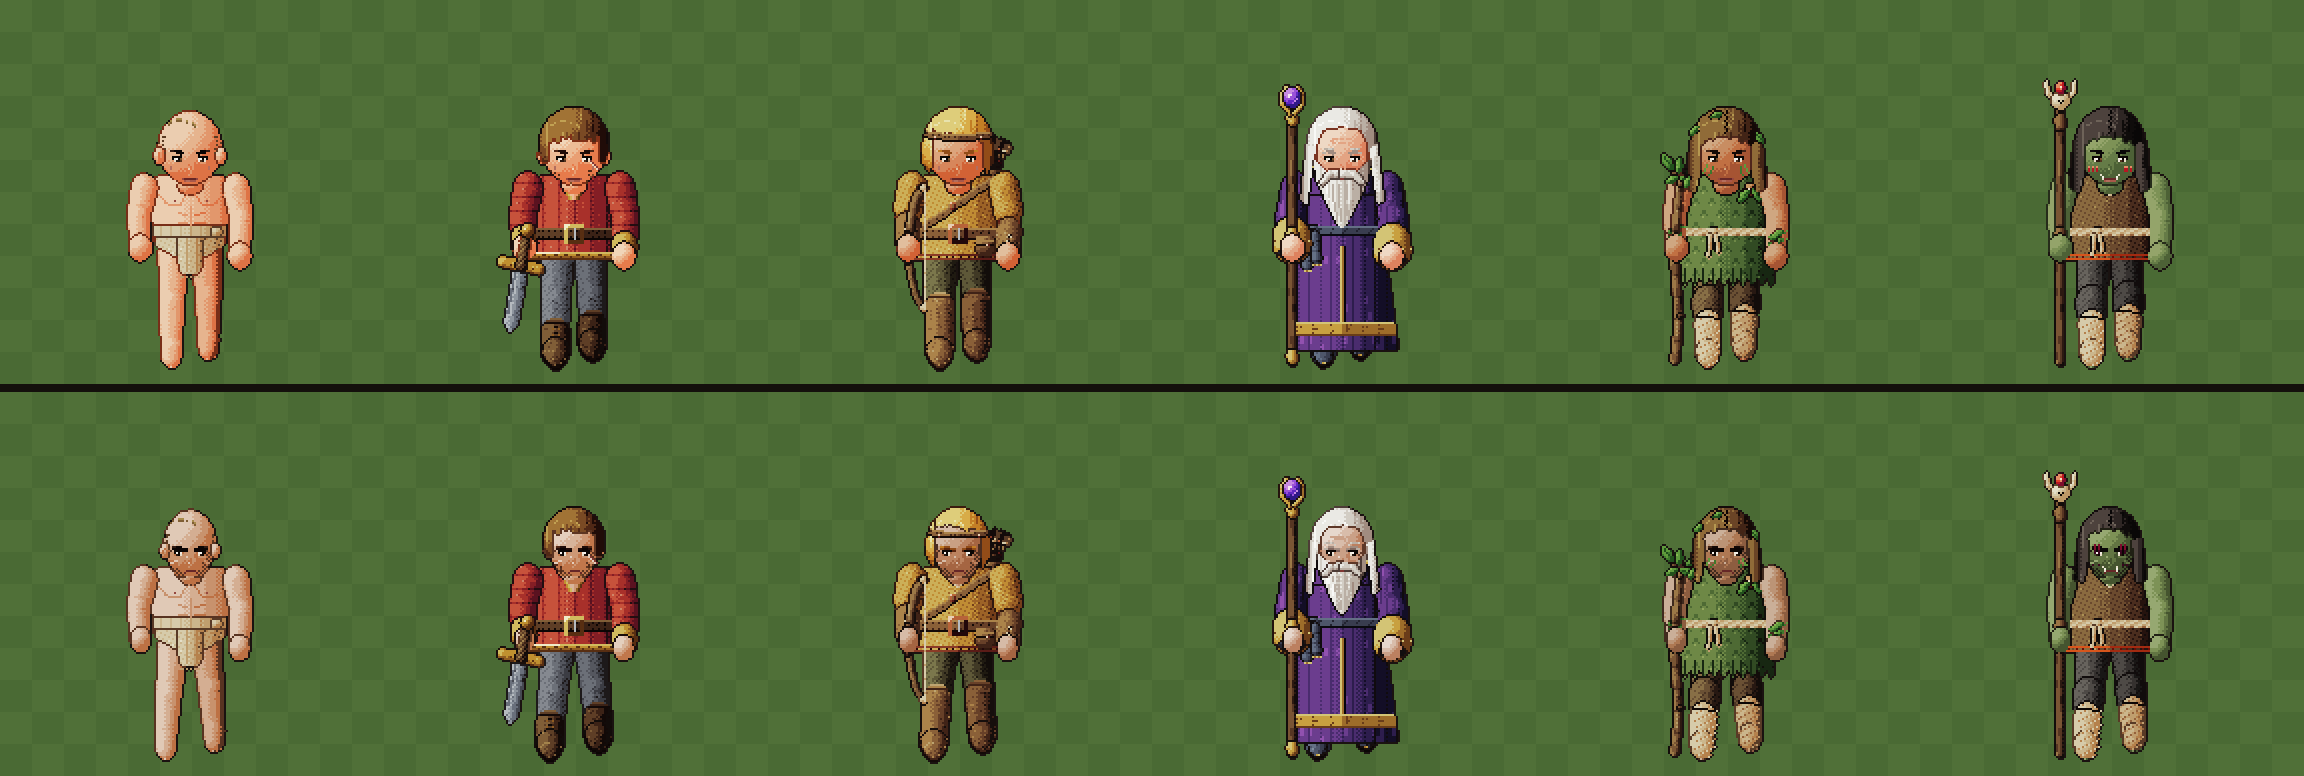
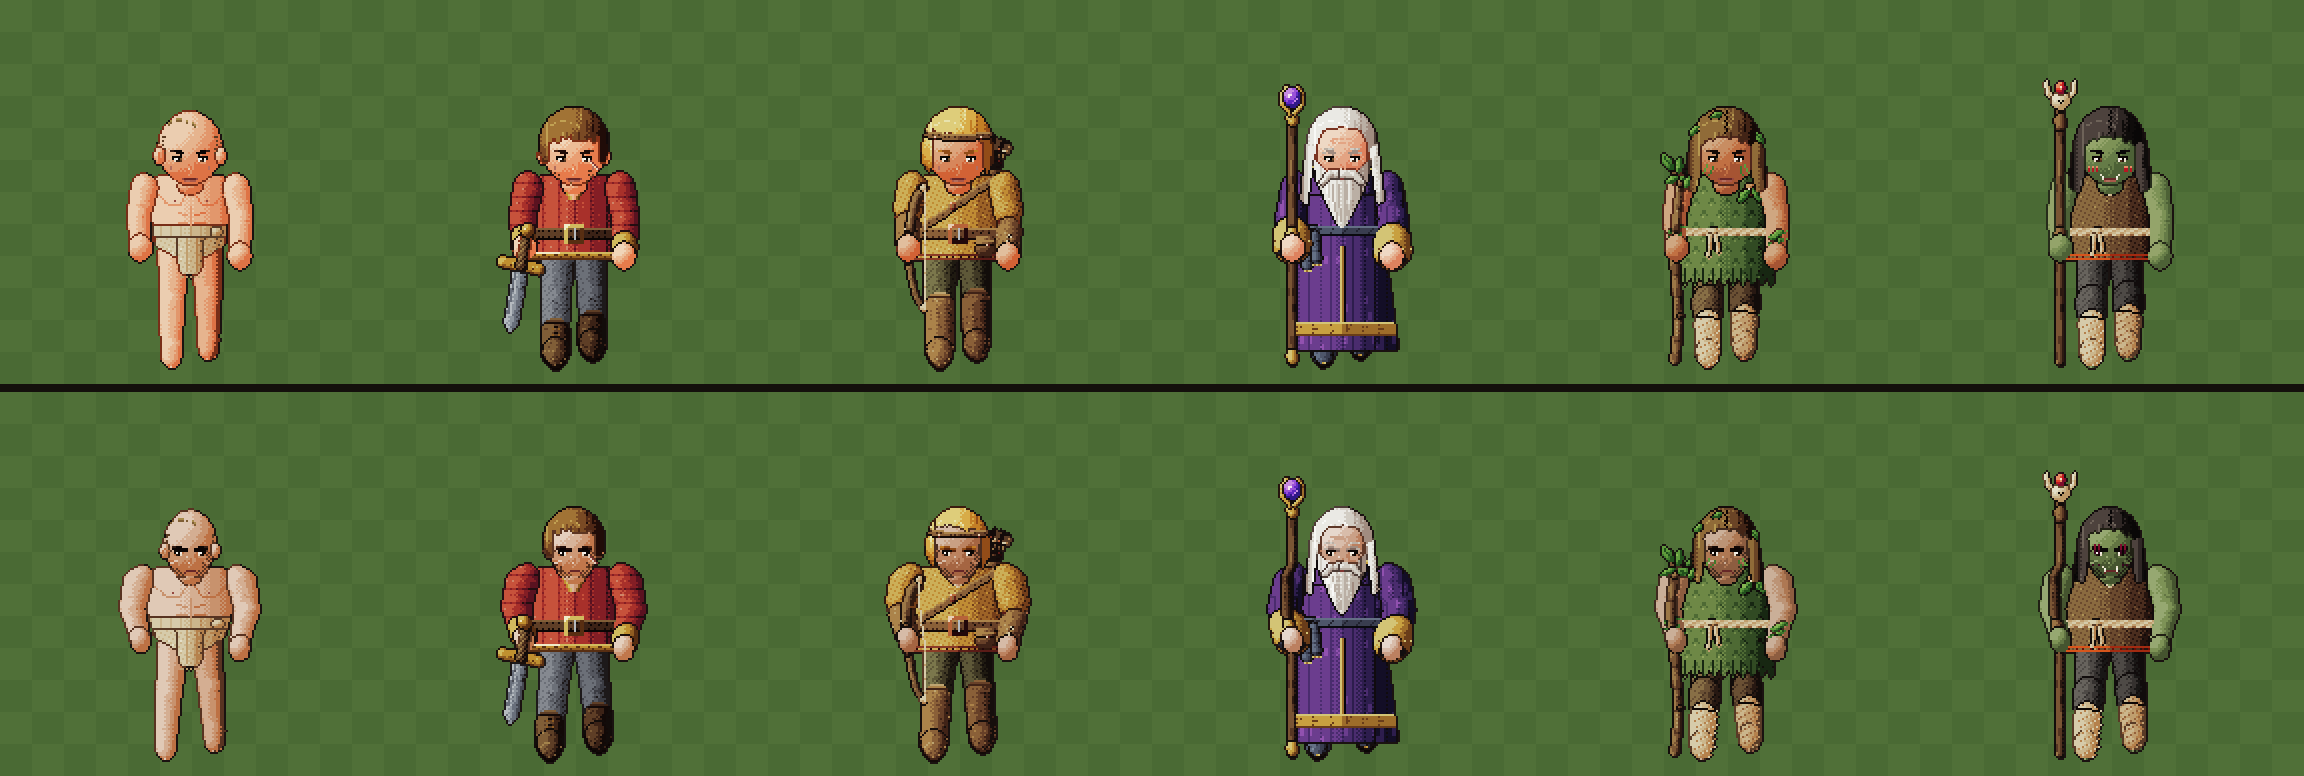
feat: ombros largos em V nos heróis
Canvas.flared alarga na horizontal só a faixa dos ombros e do peito
(transição suave para o pescoço e a cintura), por cima de tudo o que é
desenhado ali: tronco, armadura, ombreira e braço alargam juntos, sem
desenho novo de item, e a cabeça fica de fora. Vale de frente, de costas,
nos golpes e no retrato do menu; de perfil não muda.

Claude-Session: https://claude.ai/code/session_017wBqbL5KgpxPYoPQAbEbHF

diff --git a/apps/client/src/art/proto/tibiaHero.ts b/apps/client/src/art/proto/tibiaHero.ts
@@ -116,6 +116,8 @@ interface Build {
  */
 const HERO_BUILD: Build = { legs: 3, arms: 1, slim: 0.92, head: 0.88 };
 /** Tom heroico e sério dos heróis: pele com mais contraste e luz dura (sombra mais funda no lado de lá). */
+/** Quanto os ombros e o peito dos heróis alargam (de frente e de costas), em fração da largura. */
+const HERO_SHOULDERS = 0.12;
 const HERO_SKIN = 0.95, HERO_GRIM = 1.12;
 
 /** Aperta a forma na horizontal em volta do meio do corpo (tórax e abdome mais estreitos, `Kit.chest`). */
@@ -405,22 +407,68 @@ export class Canvas {
     return o !== undefined ? o + (u - o) * k : u * k + (axis ? f.ty : f.tx);
   }
 
+  /**
+   * Ombros largos (heróis): alarga na horizontal, em volta da coluna `cx`, só a faixa do corpo entre `y0` e `y3` (em
+   * unidades da tela), no máximo `1 + a` entre `y1` e `y2`, e nada fora dela. Vale para tudo o que é desenhado ali
+   * (tronco, armadura, ombreira, braço), então o equipamento acompanha sem desenho novo. É a transformação de fora:
+   * fica por cima de qualquer escala local.
+   */
+  private flare: { cx: number; y0: number; y1: number; y2: number; y3: number; a: number } | null = null;
+
+  /** Liga os ombros largos durante `draw`; a faixa vem em unidades locais e é levada para a tela agora. */
+  flared<T>(cx: number, y0: number, y1: number, y2: number, y3: number, a: number, draw: () => T): T {
+    if (!a) return draw();
+    const outer = this.flare;
+    const f = this.xf && !this.xf.m ? (u: number, axis: 0 | 1) => this.fwd(u, axis) : (u: number) => u;
+    this.flare = { cx: f(cx, 0), y0: f(y0, 1), y1: f(y1, 1), y2: f(y2, 1), y3: f(y3, 1), a };
+    try { return draw(); } finally { this.flare = outer; }
+  }
+
+  /** Quanto a faixa dos ombros alarga na altura `y` (unidades da tela). */
+  private flareAt(y: number) {
+    const w = this.flare!;
+    const ease = (t: number) => t * t * (3 - 2 * t);
+    const k = y <= w.y0 || y >= w.y3 ? 0 : y < w.y1 ? ease((y - w.y0) / (w.y1 - w.y0)) : y <= w.y2 ? 1 : ease((w.y3 - y) / (w.y3 - w.y2));
+    return 1 + w.a * k;
+  }
+
+  /** Ponto da tela (unidades) de volta para antes do alargamento dos ombros. */
+  private unflare(x: number, y: number) {
+    return this.flare ? this.flare.cx + (x - this.flare.cx) / this.flareAt(y) : x;
+  }
+
   /** Pixel final levado pela escala local. */
   private tx(X: number, Y: number): [number, number] {
+    const [x, y] = this.txLocal(X, Y);
+    if (!this.flare) return [x, y];
+    const w = this.flare;
+    return [(w.cx + (x / K - w.cx) * this.flareAt(y / K)) * K, y];
+  }
+
+  private txLocal(X: number, Y: number): [number, number] {
     if (!this.xf) return [X, Y];
     const m = this.xf.m;
     if (m) { const u = X / K, v = Y / K; return [(m[0] * u + m[1] * v + m[2]) * K, (m[3] * u + m[4] * v + m[5]) * K]; }
     return [this.fwd(X / K, 0) * K, this.fwd(Y / K, 1) * K];
   }
 
+  /** Alarga o retângulo da tela para caber o alargamento dos ombros. */
+  private flareBox(x0: number, x1: number): [number, number] {
+    const w = this.flare;
+    if (!w) return [x0, x1];
+    return [w.cx + Math.min(0, x0 - w.cx) * (1 + w.a) + Math.max(0, x0 - w.cx) - 1, w.cx + Math.max(0, x1 - w.cx) * (1 + w.a) + Math.min(0, x1 - w.cx) + 1];
+  }
+
   fill(box: Box, test: Test, mat: Mat, shade: Shade, offset?: Offset) {
     const id = this.group || ++this.seq;
     const f = this.xf;
     if (f?.m) return this.fillAff(id, f.m, box, test, mat, shade, offset);
-    const [x0, y0, x1, y1] = f ? [this.fwd(box[0], 0) - 1, this.fwd(box[1], 1) - 1, this.fwd(box[2], 0) + 1, this.fwd(box[3], 1) + 1] : box;
+    const [bx0, y0, bx1, y1] = f ? [this.fwd(box[0], 0) - 1, this.fwd(box[1], 1) - 1, this.fwd(box[2], 0) + 1, this.fwd(box[3], 1) + 1] : box;
+    const [x0, x1] = this.flareBox(bx0, bx1);
     for (let Y = Math.max(0, Math.floor(y0 * K)); Y <= Math.min(this.h - 1, Math.ceil((y1 + 1) * K)); Y++) {
       for (let X = Math.max(0, Math.floor(x0 * K)); X <= Math.min(this.w - 1, Math.ceil((x1 + 1) * K)); X++) {
         let x = (X + 0.5) / K - 0.5, y = (Y + 0.5) / K - 0.5;
+        if (this.flare) x = this.unflare(x + 0.5, y + 0.5) - 0.5;
         if (f) {
           if (f.ox !== undefined && f.oy !== undefined) { x = f.ox + (x + 0.5 - f.ox) / (f.k * f.sx) - 0.5; y = f.oy + (y + 0.5 - f.oy) / f.k - 0.5; }
           else { x = (x + 0.5 - f.tx) / (f.k * f.sx) - 0.5; y = (y + 0.5 - f.ty) / f.k - 0.5; }
@@ -441,12 +489,12 @@ export class Canvas {
   /** `fill` dentro de um giro: o retângulo vira o que o cerca na tela e cada pixel volta pela transformação inversa. */
   private fillAff(id: number, m: Aff, box: Box, test: Test, mat: Mat, shade: Shade, offset?: Offset) {
     const corners = [[box[0], box[1]], [box[2] + 1, box[1]], [box[0], box[3] + 1], [box[2] + 1, box[3] + 1]].map(([u, v]) => [m[0] * u + m[1] * v + m[2], m[3] * u + m[4] * v + m[5]]);
-    const x0 = Math.min(...corners.map((p) => p[0])) - 1, x1 = Math.max(...corners.map((p) => p[0])) + 1;
+    const [x0, x1] = this.flareBox(Math.min(...corners.map((p) => p[0])) - 1, Math.max(...corners.map((p) => p[0])) + 1);
     const y0 = Math.min(...corners.map((p) => p[1])) - 1, y1 = Math.max(...corners.map((p) => p[1])) + 1;
     const det = m[0] * m[4] - m[1] * m[3];
     for (let Y = Math.max(0, Math.floor(y0 * K)); Y <= Math.min(this.h - 1, Math.ceil(y1 * K)); Y++) {
       for (let X = Math.max(0, Math.floor(x0 * K)); X <= Math.min(this.w - 1, Math.ceil(x1 * K)); X++) {
-        const px = (X + 0.5) / K - m[2], py = (Y + 0.5) / K - m[5];
+        const px = this.unflare((X + 0.5) / K, (Y + 0.5) / K) - m[2], py = (Y + 0.5) / K - m[5];
         const x = (m[4] * px - m[1] * py) / det - 0.5, y = (-m[3] * px + m[0] * py) / det - 0.5;
         if (!test(x, y, X, Y)) continue;
         const i = Y * this.w + X;
@@ -1694,6 +1742,8 @@ function front(c: Canvas, kit: Kit, frame: number, back: boolean, mp?: MonsterPo
 
   // Atrás do corpo: cabelo comprido (de frente) e a aljava (de frente só aparece acima do ombro).
   const head = headScale(c, kit, [CX, top + 1]);
+  // Heróis: ombros e peito mais largos que o quadril (tronco, armadura e braços juntos; a cabeça fica de fora).
+  c.flared(CX + 0.5, top - 2, top + 3, top + 9, top + 19, kit.build ? HERO_SHOULDERS : 0, () => {
   if (!back) head(() => hairBehind(c, kit, b, top));
   if (kit.quiver && !back) quiver(c, [CX + 9.5, top - 3], [CX + 2, top + 14], 6.5);
 
@@ -1735,6 +1785,7 @@ function front(c: Canvas, kit: Kit, frame: number, back: boolean, mp?: MonsterPo
     if (mp?.spark) sparks(holds && grip === "staff" && lift ? [ha[0], top - 19 + lift] : ha, 1);
   }
   if (kit.armor) armorShoulders(c, kit.armor, top, back ? "up" : "down", [[CX - 12.8, top + 2], [CX + 12.8, top + 2]]);
+  });
   head(() => (back ? headBack(c, kit, b, top) : headFront(c, kit, b, top)));
 }
 

diff --git a/docs/ARTE_HEROIS_ROSTO.md b/docs/ARTE_HEROIS_ROSTO.md
@@ -34,7 +34,12 @@ porque o `pixelated` serrilha ao diminuir.
 | Boca com lábio claro | linha fina e reta, cantos para baixo | `headFront` |
 | Mão redonda maior que o antebraço | punho menor e mais quadrado | `hand(…, hero)` |
 | Pés juntos | pés afastados 1,6 unidade de cada lado | `front` (`spread`) |
+| Ombros da largura do quadril (corpo reto de boneco) | ombros e peito 12% mais largos, em V (de frente e de costas) | `HERO_SHOULDERS`, `Canvas.flared` |
 | Pintura do Xamã Orc parecia blush | riscos finos e escuros cruzando o olho | `headFront`, `headSide` |
+
+Os ombros largos não redesenham nada: `Canvas.flared` alarga na horizontal só a faixa dos ombros e do peito (com
+transição suave para o pescoço e para a cintura), por cima de tudo o que é desenhado ali, então tronco, armadura,
+ombreira e braço alargam juntos e a cabeça fica de fora. De perfil não alarga (seria profundidade do peito).
 
 A cabeça é reduzida em volta do pescoço, então os encaixes dos itens (centro da cabeça, pescoço, ombros) não mudaram:
 os ~140 desenhos de equipamento continuam no lugar, conferidos com `heroiPrevia.ts` (parado, andar e ação).
@@ -46,6 +51,6 @@ os ~140 desenhos de equipamento continuam no lugar, conferidos com `heroiPrevia.
 
 ## Próximos passos possíveis
 
-- Ombros mais largos e braços menos cilíndricos (mexe no tronco e nas armaduras: pede conferir item por item).
+- Braços menos cilíndricos (deltoide e antebraço com forma própria).
 - Os heróis no motor de escultura (`sculpt.ts`), no nível do Orc batedor e do Vorgak: teto bem maior, mas reescreve os
   desenhos de itens de `tibiaHero.ts`. Só se este passo não bastar.
